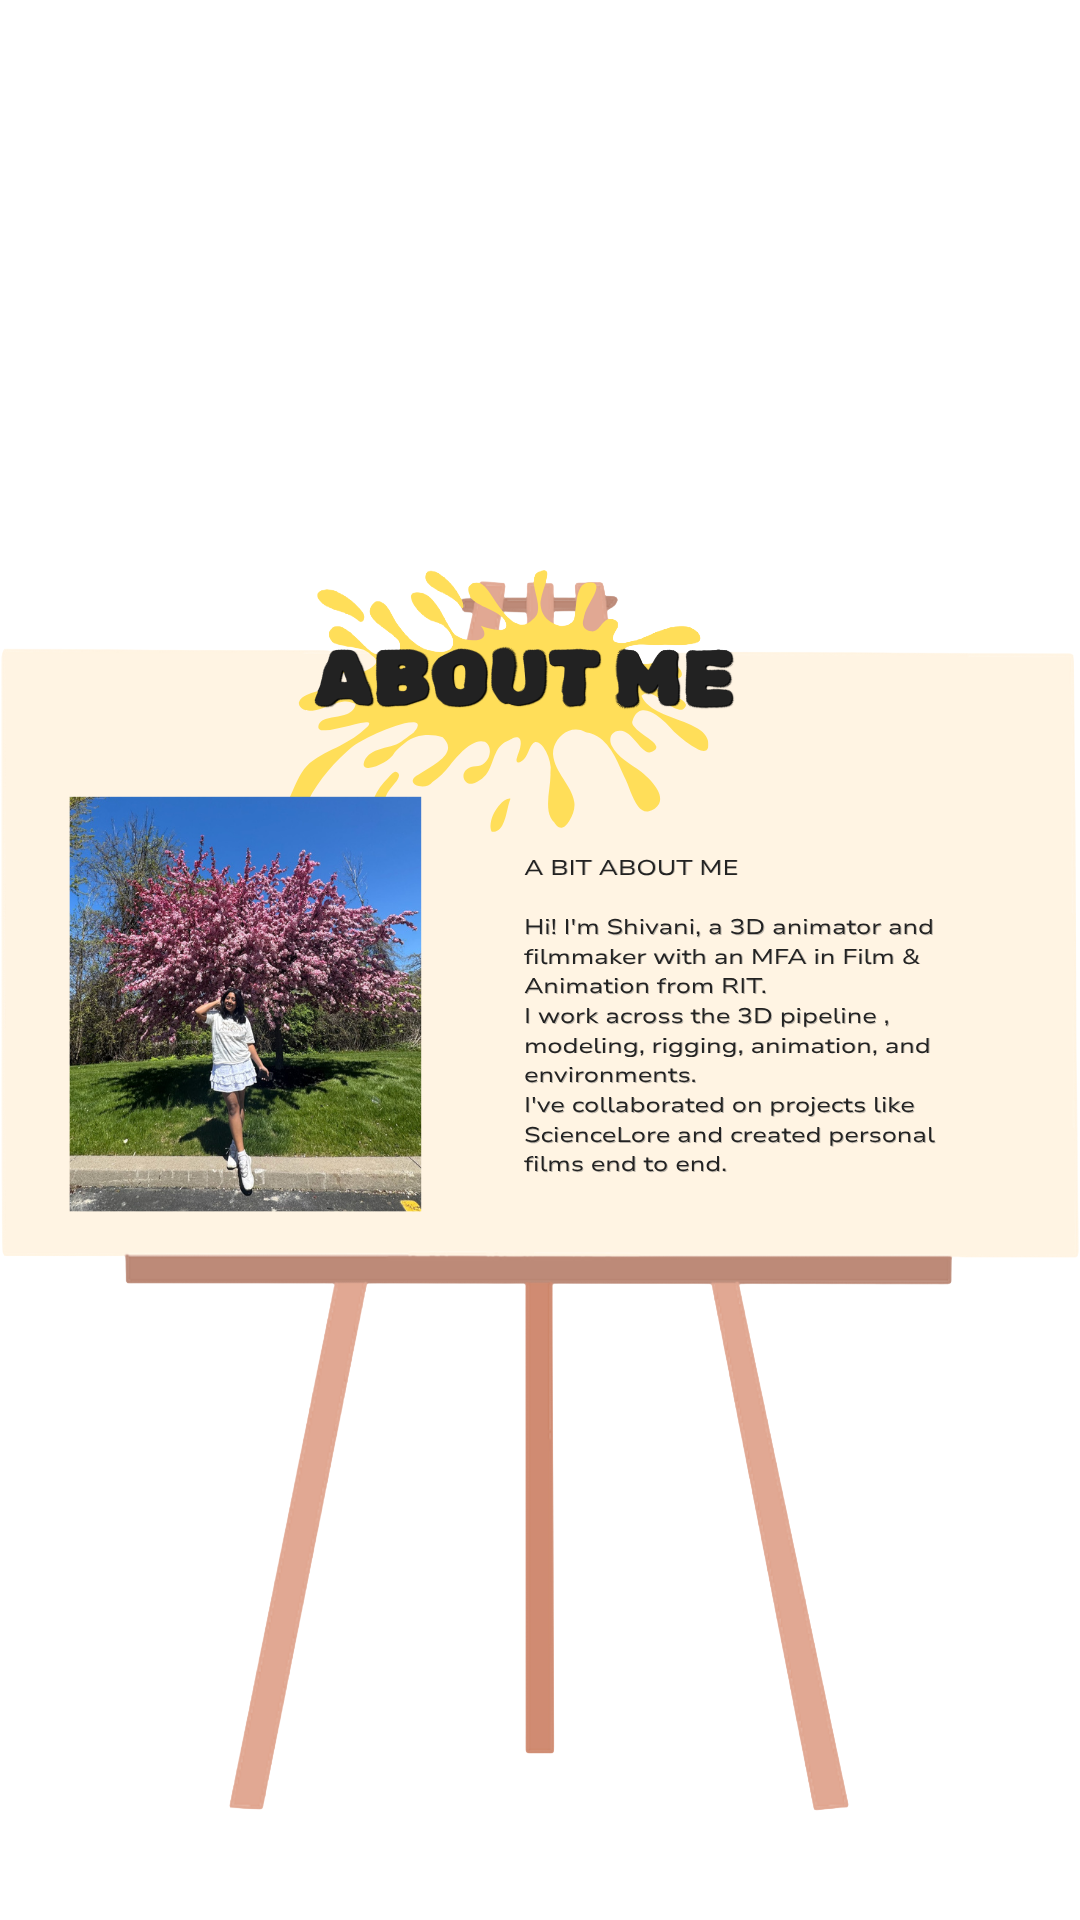
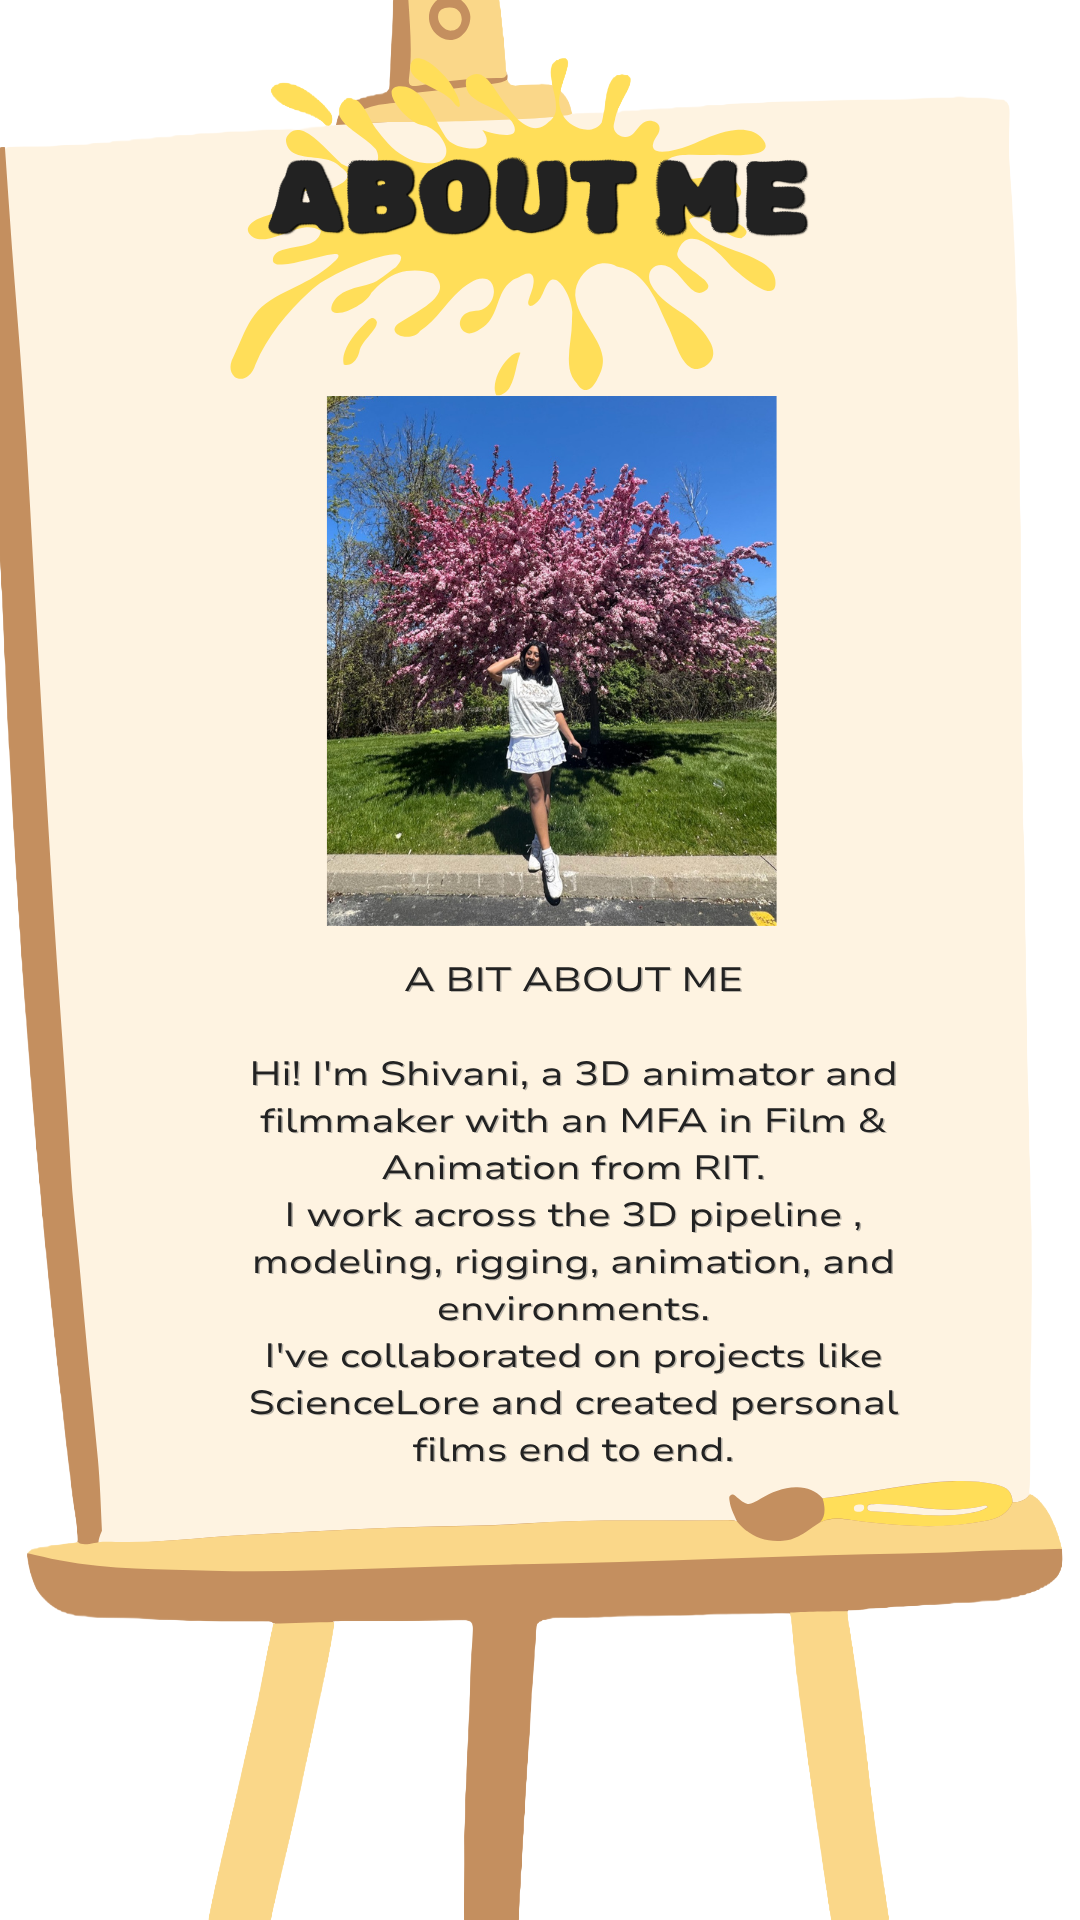
fix panel bg, mobile carousel vertical, resume button spacing

diff --git a/src/style.scss b/src/style.scss
@@ -493,7 +493,6 @@ body {
   white-space: nowrap;
 }
 
-/* BLACK accent on hover/active instead of green */
 .nav-dot:hover  { background: rgba(0, 0, 0, 0.12); color: #111; }
 .nav-dot.active { background: rgba(0, 0, 0, 0.15); color: #111; }
 
@@ -576,7 +575,6 @@ body {
   transition: all 0.2s ease;
 }
 
-/* BLACK accent on mobile nav */
 .mobile-nav-item:hover,
 .mobile-nav-item.active { background: rgba(255, 255, 255, 0.1); color: #fff; }
 
@@ -628,9 +626,8 @@ body {
   max-height: 88vh;
   min-height: 0;
   overflow: hidden;
-  background: url('/images/BG.png') center center / contain no-repeat;
-  background-size: contain;
-  padding: 8% 10% 5% 10%;
+  background: url('/images/BG.png') center 40% / cover no-repeat;
+  padding: 12% 10% 5% 10%;
   z-index: 200;
   color: white;
   scrollbar-width: none;
@@ -671,7 +668,7 @@ body {
   color: rgba(255, 255, 255, 0.8);
   font-size: 16px;
   line-height: 1.8;
-  margin: 60px auto 0;
+  margin: 20px auto 0;
   width: 86%;
   display: flex;
   flex-direction: column;
@@ -705,7 +702,6 @@ body {
 
 .card:hover { background: rgba(0, 0, 0, 0.1); border-color: rgba(0, 0, 0, 0.3); }
 
-/* BLACK text on carousel cards */
 .card-title { font-size: 14px; color: #111; margin-bottom: 4px; letter-spacing: 0.05em; }
 .card-desc  { font-size: 12px; color: #444; letter-spacing: 0.05em; }
 
@@ -757,7 +753,6 @@ body {
 .carousel-slide img    { width: 100%; height: 160px; object-fit: cover; display: block; transition: transform 0.3s ease; }
 .carousel-slide:hover img { transform: scale(1.04); }
 
-/* BLACK text inside slide info */
 .carousel-slide-info   { padding: 12px 16px; background: rgba(255,255,255,0.9); }
 .carousel-slide-info .card-title { color: #111; }
 .carousel-slide-info .card-desc  { color: #444; }
@@ -784,7 +779,6 @@ body {
 
 .carousel-btn:hover { background: rgba(0, 0, 0, 0.18); }
 
-/* BLACK carousel dots */
 .carousel-dots      { display: flex; gap: 8px; }
 
 .carousel-dot {
@@ -898,7 +892,6 @@ body {
 
 .project-arrow:hover { background: rgba(255, 255, 255, 0.2); }
 
-/* ── PROJECT CLOSE — TOP RIGHT, bigger, no circle bg ────────────────────────── */
 #project-close {
   position: fixed;
   top: 16px;
@@ -1269,57 +1262,84 @@ body {
   #final-load-bar-wrap { width: 140px; }
   #final-load-percent  { font-size: 16px; }
 
-  /* ── WASD hint hidden on mobile (joystick instead) ── */
   #scroll-hint { display: none; }
 
-  /* ── Instruction image ── */
   #instruction-card { width: 96vw; aspect-ratio: 16/9; padding: 0; }
 
-  /* ── Panel: full screen, no scroll ── */
+  /* ── Panel: mobile ── */
   #panel {
-    width: 100vw;
+    width: 92vw;
     left: 50%;
     transform: translate(-50%, -50%);
     top: 50%;
     min-height: 0;
-    height: 88vh;
-    max-height: 88vh;
-    padding: 25% 4% 24px 4%;
-    background-size: 100% 100%;
+    height: 80vh;
+    max-height: 80vh;
+    padding: 38% 6% 20px 6%;
+    background-size: cover;
+    background-position: center center;
     overflow: hidden;
     border-radius: 0;
   }
 
   .panel-body--no-title { margin: 0 auto; width: 100%; }
 
-  /* ── Speech bubble stays at very bottom ── */
   #speech-bubble { padding-bottom: 90px; }
 
-  /* ── Close button — top right, smaller, no overlap with menu ── */
   #panel-close { top: 6px; right: 6px; }
   #panel-close img { width: 44px; height: 44px; }
 
-  /* ── Carousel — full width, single card visible ── */
-  .carousel-container { width: 100%; padding: 0 0 16px; margin-top: 0; }
-  .carousel-track     { gap: 10px; padding: 4px 4px 8px; }
-  .carousel-slide     { min-width: 86%; max-width: 86%; border-radius: 10px; }
-  .carousel-slide img { height: 160px; object-fit: cover; }
-  .carousel-slide-info { padding: 10px 12px; }
-  .card-title   { font-size: 13px; font-weight: 700; color: #111; }
-  .card-desc    { font-size: 11px; color: #444; }
-  .carousel-btn { width: 34px; height: 34px; font-size: 13px; }
-  .carousel-dot { width: 6px; height: 6px; }
+  /* ── Mobile carousel — vertical scrollable list ── */
+  .carousel-container {
+    width: 100%;
+    padding: 0 0 12px;
+    margin-top: 0;
+  }
 
-  /* ── Contact panel — uses panel padding-top ── */
+  .carousel-track {
+    flex-direction: column;
+    overflow-x: hidden;
+    overflow-y: auto;
+    max-height: 52vh;
+    scroll-snap-type: y mandatory;
+    gap: 10px;
+    padding: 4px 2px 8px;
+  }
 
-  /* ── Resume button — smaller on mobile ── */
-  .resume-download-btn {
+  .carousel-slide {
+    min-width: 100%;
+    max-width: 100%;
+    width: 100%;
+    flex-shrink: 0;
+    scroll-snap-align: start;
+    border-radius: 10px;
+    opacity: 1;
+  }
+
+  .carousel-slide.active {
+    border-color: rgba(0, 0, 0, 0.35);
+  }
+
+  .carousel-slide img {
+    height: 130px;
+    object-fit: cover;
+  }
+
+  .carousel-slide-info { padding: 8px 12px; }
+  .card-title { font-size: 12px; font-weight: 700; color: #111; }
+  .card-desc  { font-size: 10px; color: #444; }
+
+  /* hide nav buttons on mobile — scrolling replaces them */
+  .carousel-nav { display: none; }
+
+  /* ── Resume button — push down on mobile ── */
+  #panel .resume-download-btn {
+    margin-top: 50px;
     font-size: 11px !important;
     padding: 10px 22px !important;
     letter-spacing: 0.1em !important;
   }
 
-  /* ── Project overlay ── */
   #project-overlay { align-items: flex-start; overflow-y: auto; }
   #project-layout  { grid-template-columns: 1fr; padding: 56px 16px 40px; gap: 16px; width: 100%; }
   #project-layout .project-arrow { display: none; }
@@ -1331,7 +1351,6 @@ body {
   #project-close    { top: 10px; right: 10px; left: auto; }
   #project-close img { width: 44px; height: 44px; }
 
-  /* ── Film detail ── */
   #film-detail-inner    { flex-direction: column; height: auto; min-height: 100vh; overflow-y: auto; padding-top: 56px; }
   #film-detail-left-img { flex: none; width: 100%; height: auto; padding: 16px 16px 0; gap: 8px; }
   #film-detail-left-img > img { max-height: 42vw; min-height: 140px; width: 100%; border-radius: 10px; }
@@ -1344,13 +1363,11 @@ body {
   #film-detail-close    { top: 10px; right: 10px; left: auto; width: 38px; height: 38px; }
   #film-detail-close img { width: 38px; height: 38px; }
 
-  /* ── Lightbox ── */
   #lightbox-img   { max-width: 96vw; max-height: 62vh; }
   #lightbox-prev  { left: 6px; width: 36px; height: 36px; }
   #lightbox-next  { right: 6px; width: 36px; height: 36px; }
   #lightbox-close { transform: translate(48vw, calc(-31vh - 28px)); width: 36px; height: 36px; }
 
-  /* ── Speech bubble ── */
   #speech-bubble       { padding-bottom: 12px; }
   #speech-bubble-inner { width: 96%; }
   #speech-bubble-char  { width: 75px; height: 75px; }
@@ -1361,9 +1378,14 @@ body {
 }
 
 @media (max-width: 480px) {
-  #panel { height: 92vh; max-height: 92vh; padding: 56px 3% 20px 3%; }
-  .carousel-slide     { min-width: 90%; max-width: 90%; }
-  .carousel-slide img { height: 140px; }
+  #panel {
+    height: 85vh;
+    max-height: 85vh;
+    padding: 40% 5% 20px 5%;
+    width: 94vw;
+  }
+  .carousel-track     { max-height: 48vh; }
+  .carousel-slide img { height: 120px; }
   #project-left img   { max-height: 38vw; }
   #film-detail-body p { font-size: 12px; }
   #enter-forest-btn   { font-size: 10px; padding: 6px 16px; }
